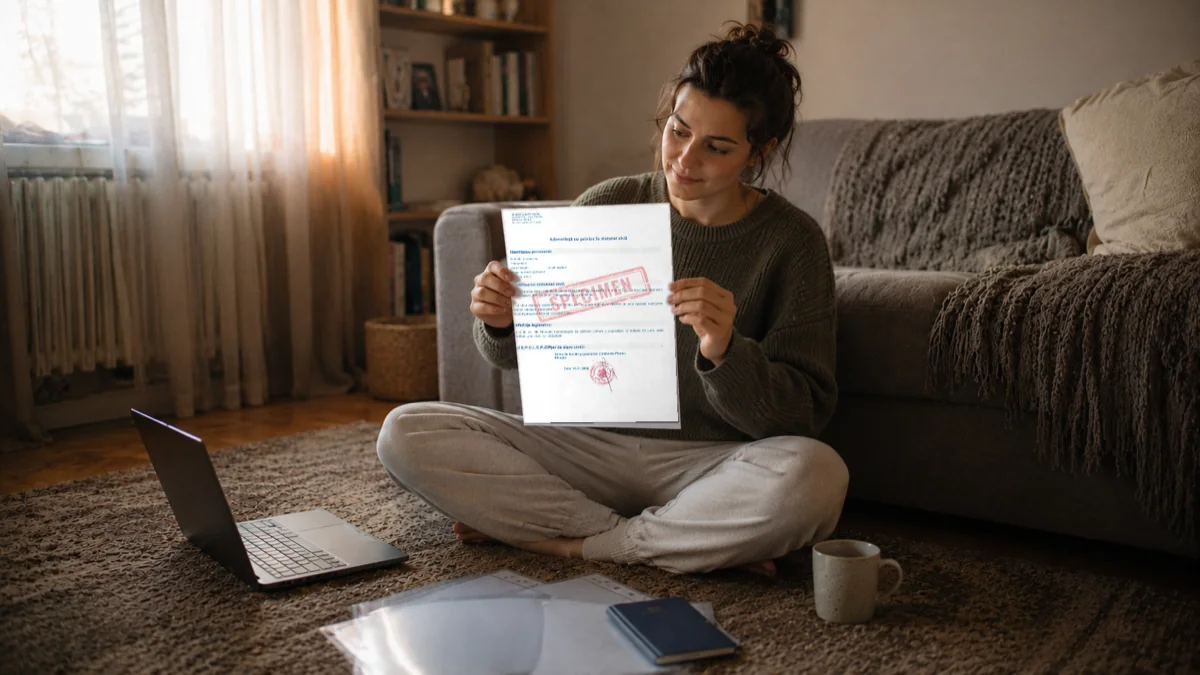
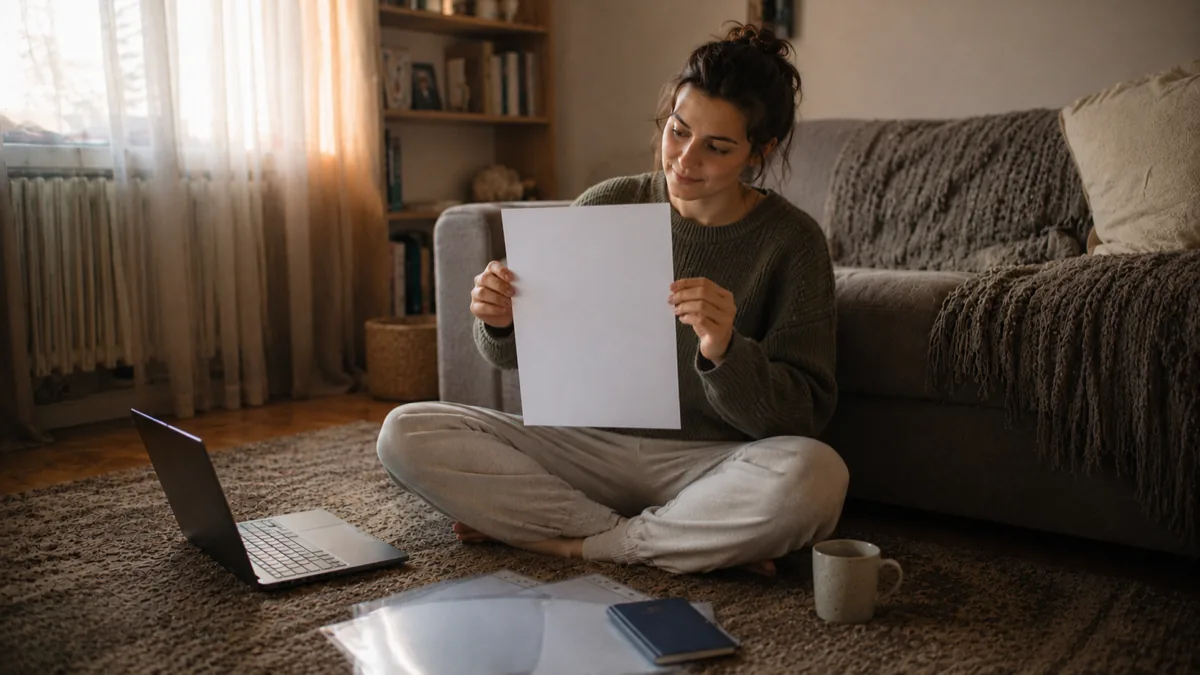
revert(seo): scos specimenele compuse din poze - se vedea artificial
Cele trei imagini revin la varianta foto simpla, cu hartie goala:
cazier-fiscal-persoana-fizica, certificat-de-celibat,
schimbare-certificat-de-nastere-vechi. Alt-textele aliniate.

Changed region(s): [[0.4008, 0.28, 0.5858, 0.6533]]

diff --git a/src/app/schimbare-certificat-de-nastere-vechi/page.tsx b/src/app/schimbare-certificat-de-nastere-vechi/page.tsx
@@ -25,7 +25,7 @@ export default function Page() {
       slug={SLUG}
       category="Stare civilă"
       image="/images/articole/schimbare-certificat-de-nastere-vechi.webp"
-      imageAlt="Certificat de naștere model vechi, îngălbenit și îndoit, alături de modelul nou tipizat — specimenul actual emis prin SIIEASC"
+      imageAlt="Certificat vechi, îngălbenit și îndoit, alături de o hârtie nouă și curată, pe o masă de lemn — schimbarea certificatului de naștere de model vechi"
       title={TITLE}
       description={DESCRIPTION}
       datePublished={DATE_PUBLISHED}

diff --git a/src/app/cazier-fiscal-persoana-fizica/page.tsx b/src/app/cazier-fiscal-persoana-fizica/page.tsx
@@ -31,7 +31,7 @@ export default function Page() {
       dateModified={DATE_MODIFIED}
       publishedLabel="august 2026"
       updatedLabel="7 august 2026"
-      imageAlt="Femeie citind acasă certificatul de cazier fiscal emis de ANAF, proaspăt tipărit, cu laptopul și imprimanta pe masă"
+      imageAlt="Femeie citind acasă un certificat proaspăt tipărit, cu laptopul și imprimanta pe masă — cazierul fiscal obținut online, fără drum la ANAF"
       relatedServices={[
         {
           href: '/servicii/cazier-fiscal-online/',

diff --git a/src/app/certificat-de-celibat/page.tsx b/src/app/certificat-de-celibat/page.tsx
@@ -24,7 +24,7 @@ export default function Page() {
       slug={SLUG}
       category="Stare civilă"
       image="/images/articole/certificat-de-celibat.webp"
-      imageAlt="Femeie așezată pe covor în living, ținând certificatul de celibat (Anexa 9) și pregătind dosarul pentru căsătoria în străinătate"
+      imageAlt="Femeie așezată pe covor în living, verificând un document din dosarul pregătit pentru căsătoria în străinătate"
       title={TITLE}
       description={DESCRIPTION}
       datePublished={DATE_PUBLISHED}
